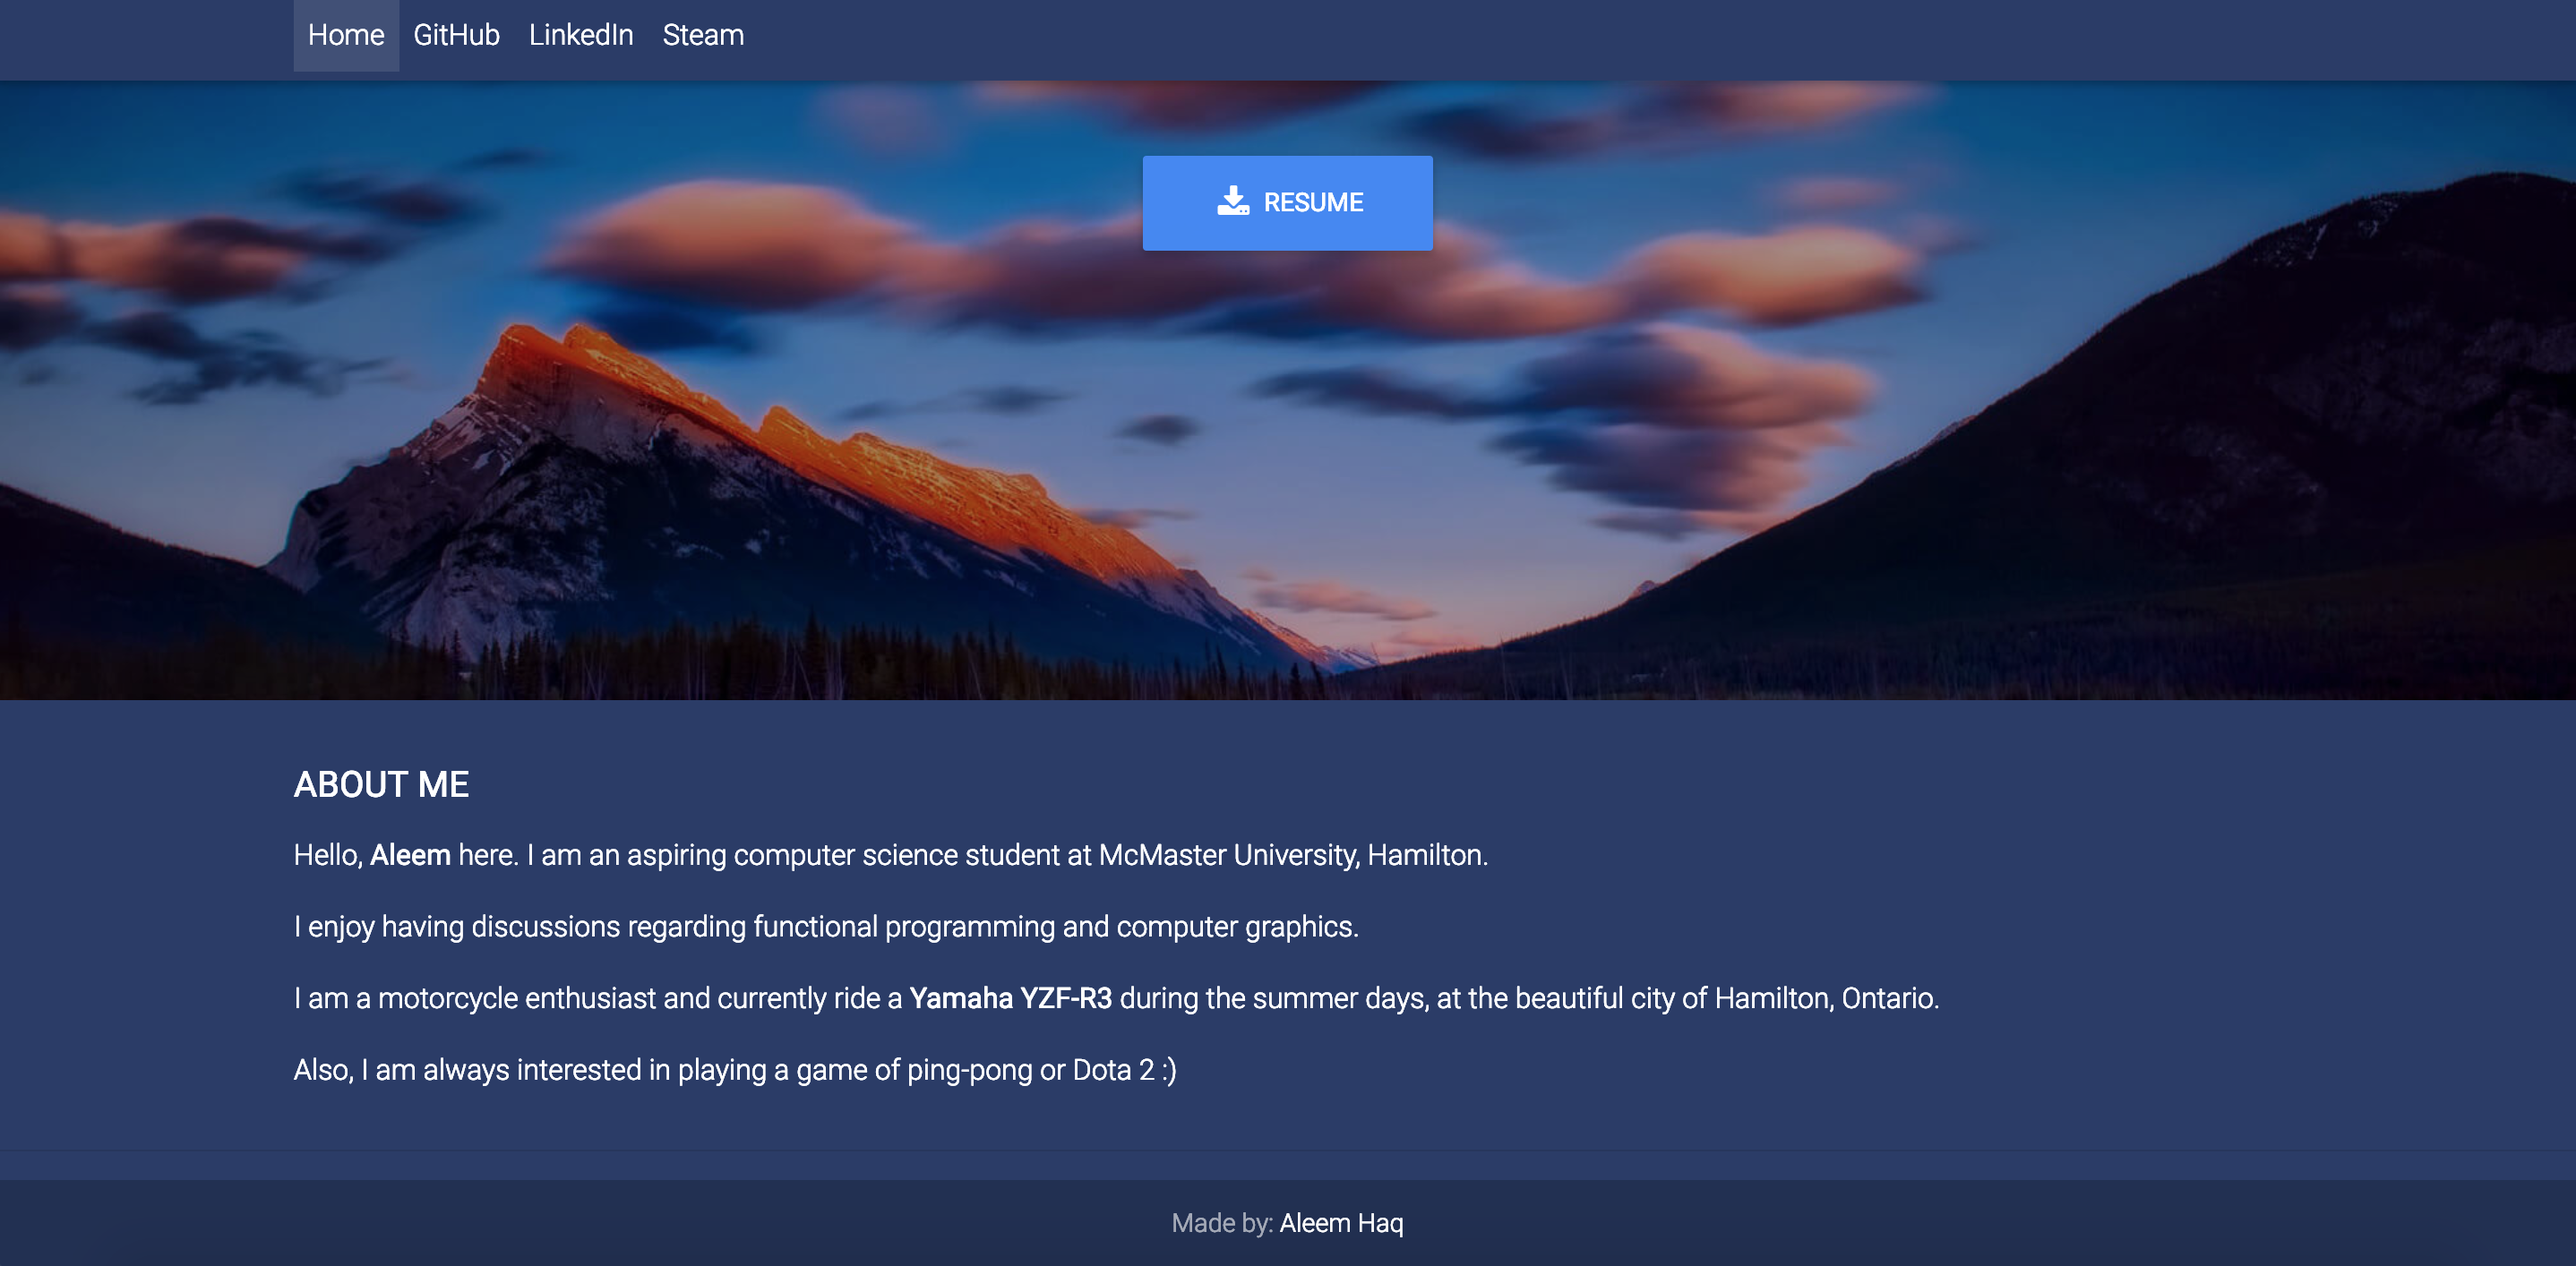
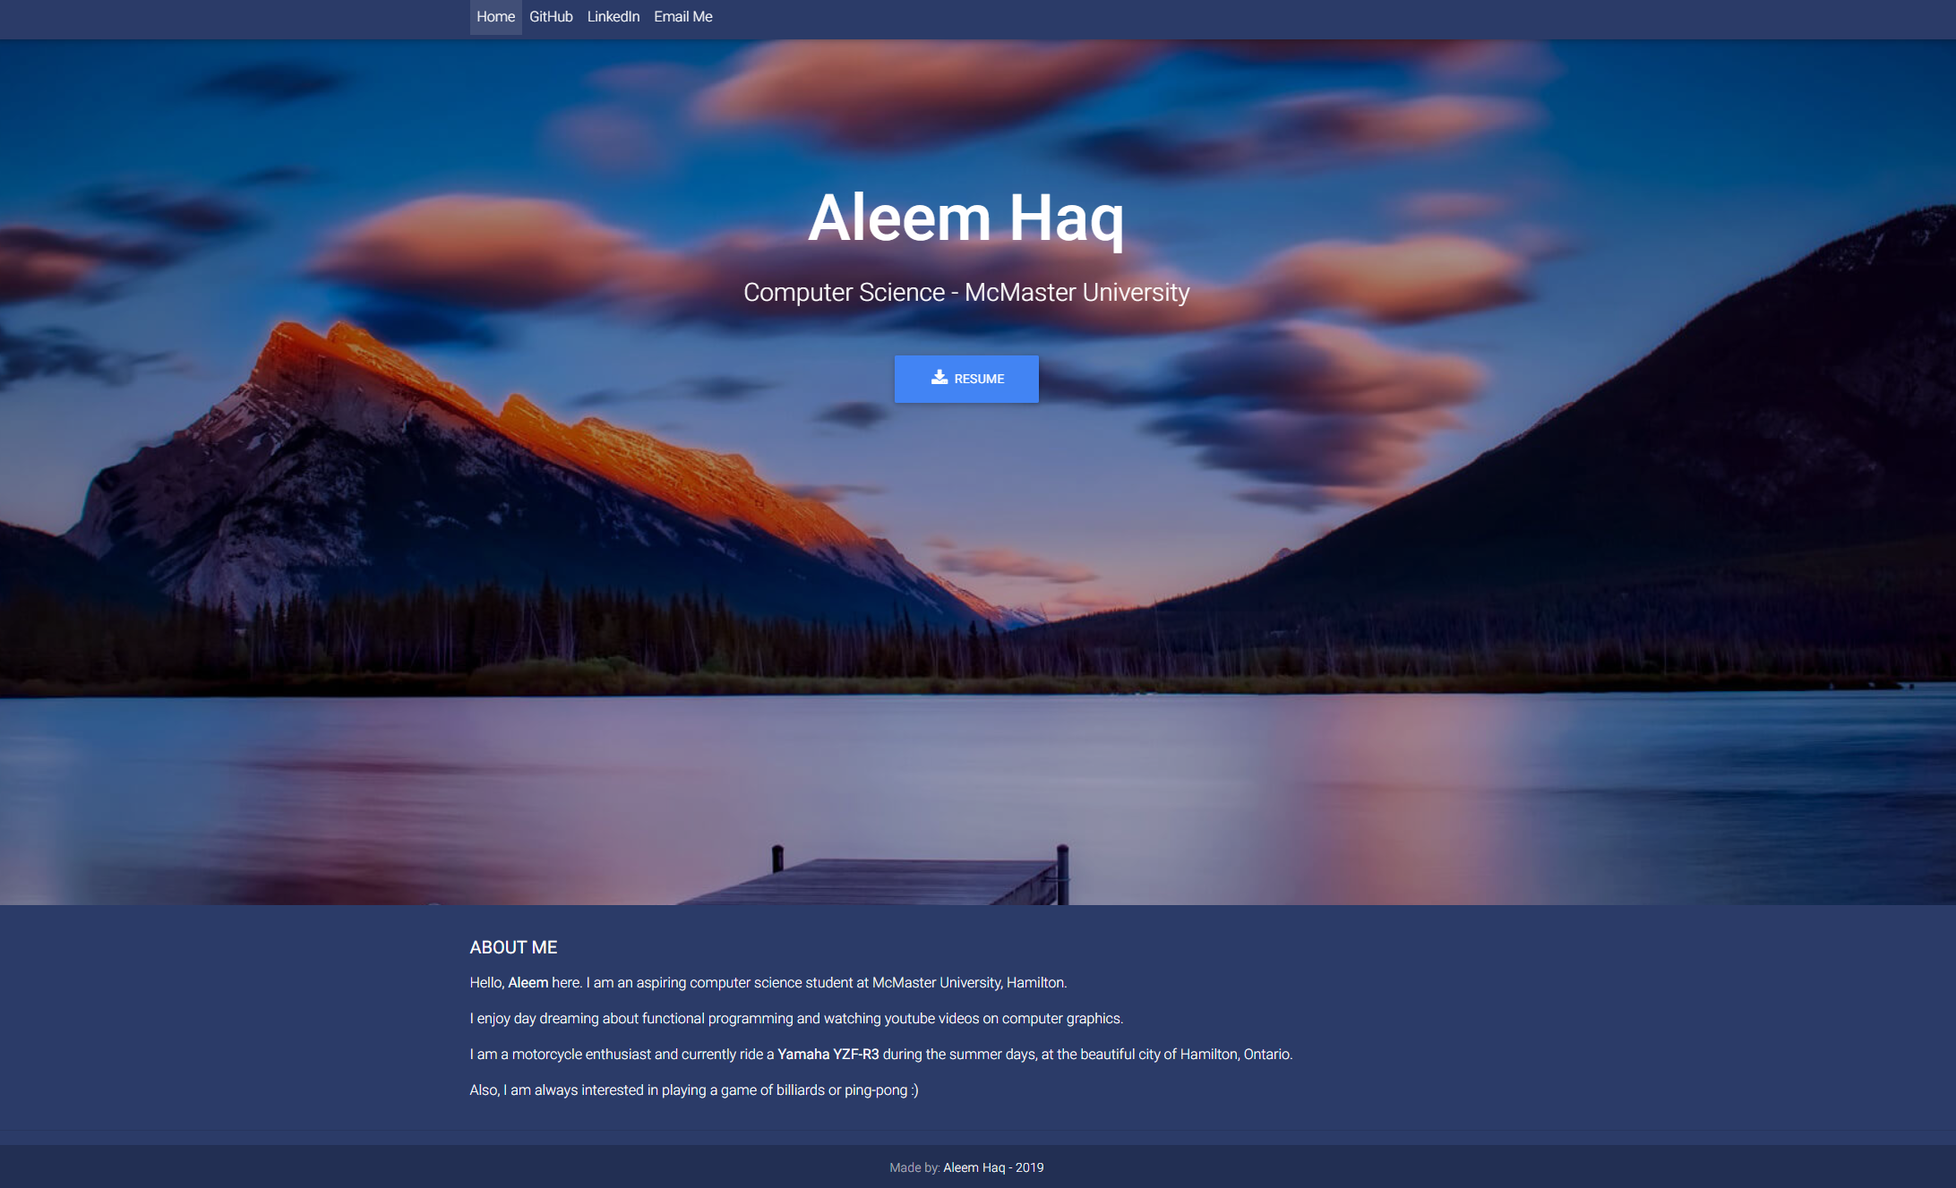
Updating subtitle and screenshots

diff --git a/index.html b/index.html
@@ -116,7 +116,7 @@
                             <a target="_blank" class="nav-link" href="https://linkedin.com/in/aleemhaq/"  data-toggle="tooltip" data-placement="bottom" title="Aleem's LinkedIn">LinkedIn</a>
                         </li>
                         <li class="nav-item">
-                                <a target="_blank" class="nav-link" href="https://steamcommunity.com/profiles/76561198259005023/"  data-toggle="tooltip" data-placement="bottom" title="Aleem's Steam profile">Steam</a>
+                                <a target="_blank" class="nav-link" href = "mailto: aleemulhaq@gmail.com" data-toggle="tooltip" data-placement="bottom" title="Email Aleem Haq">Email Me</a>
                             </li>
                         <!-- <li class="nav-item btn-group">
                             <a class="nav-link dropdown-toggle" id="navbarDropdownMenuLink" data-toggle="dropdown" aria-haspopup="true" aria-expanded="false">Projects 
@@ -143,7 +143,7 @@
                 <li>
                     <h1 class="display-3 mb-4 font-bold">Aleem Haq</h1></li>
                 <li>
-                    <h3 class="mb-5">Software Developer  •  Gamer  •  Rider </h3>
+                    <h3 class="mb-5">Computer Science - McMaster University</h3>
                 </li>
                 <li>
                     <a target="_blank" href="Resume.pdf" class="btn btn-primary btn-lg" role="button" rel="nofollow" data-toggle="tooltip" data-placement="bottom" title="Download Aleem's Resume"><i class="fa fa-download mr-2 right" aria-hidden="true"></i>Resume</a>
@@ -191,7 +191,7 @@
         <!--Copyright-->
         <div class="footer-copyright">
             <div class="container-fluid">
-                Made by: <a href="http://www.aleemulhaq.com"> Aleem Haq</a>
+                Made by: <a href="http://www.aleemulhaq.com"> Aleem Haq - 2019</a>
 
             </div>
         </div>
